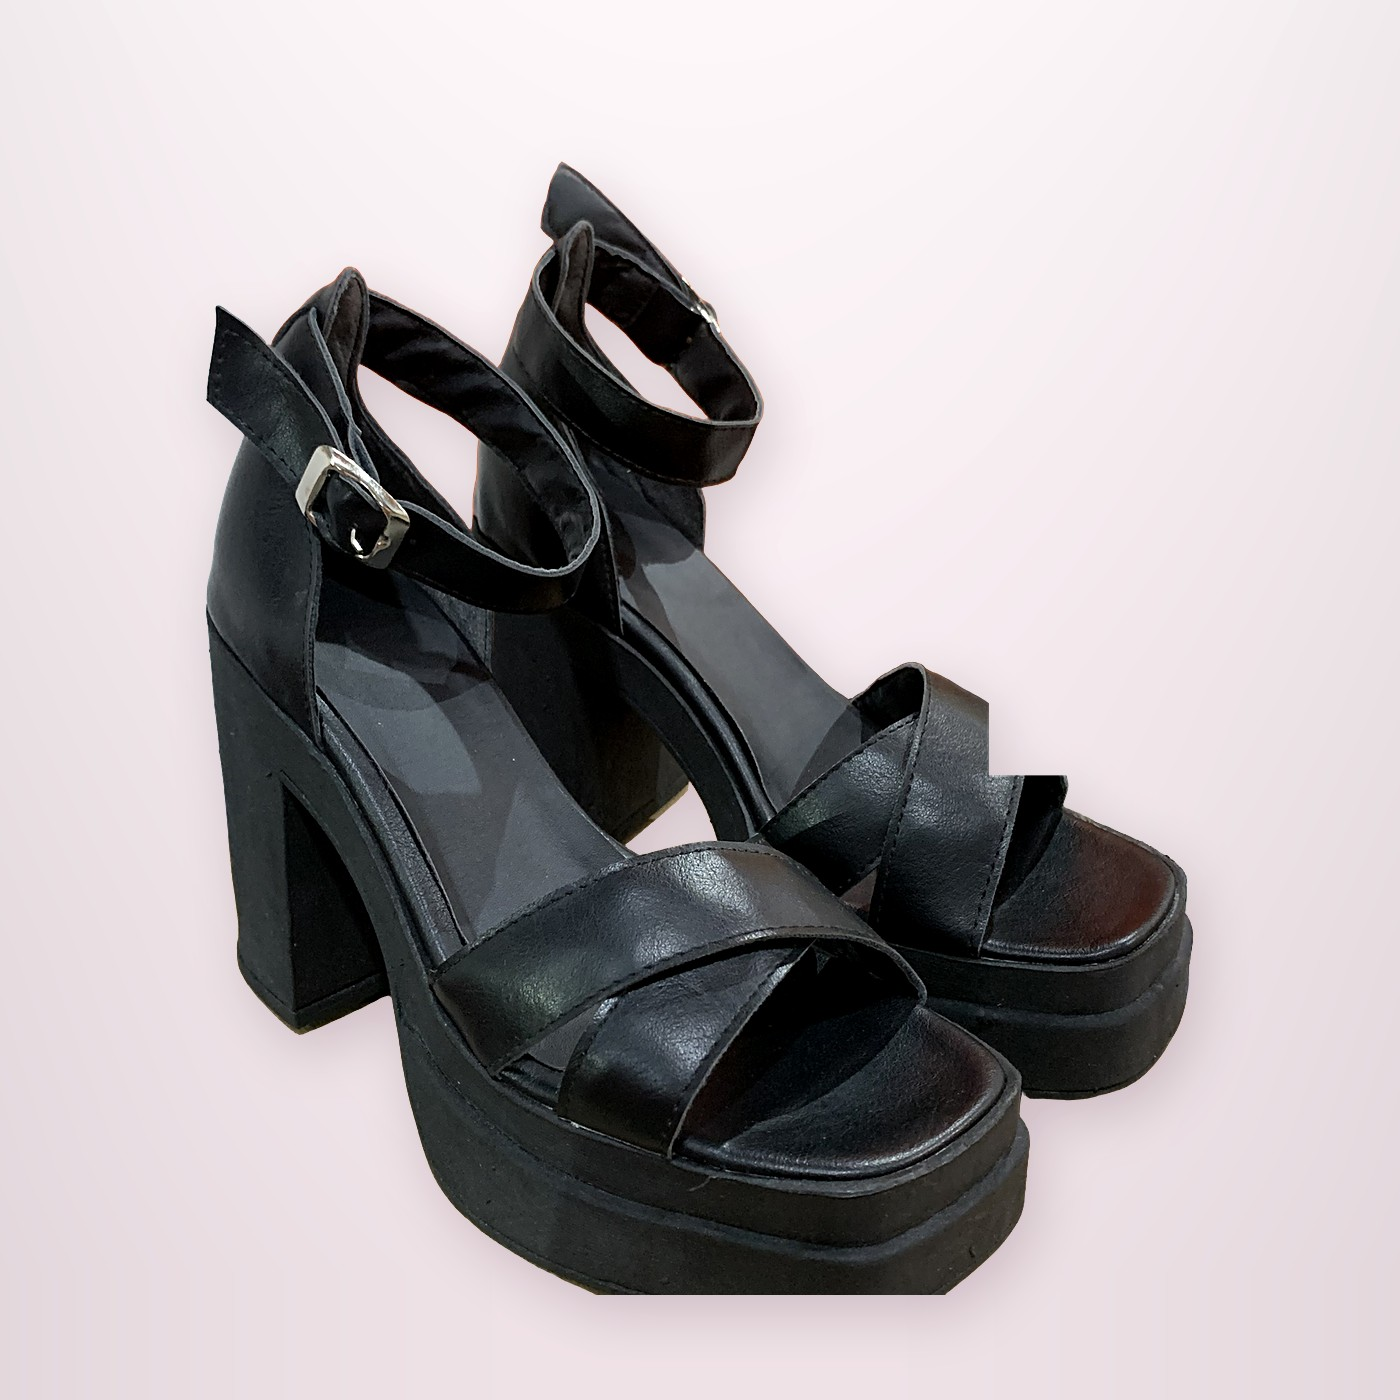
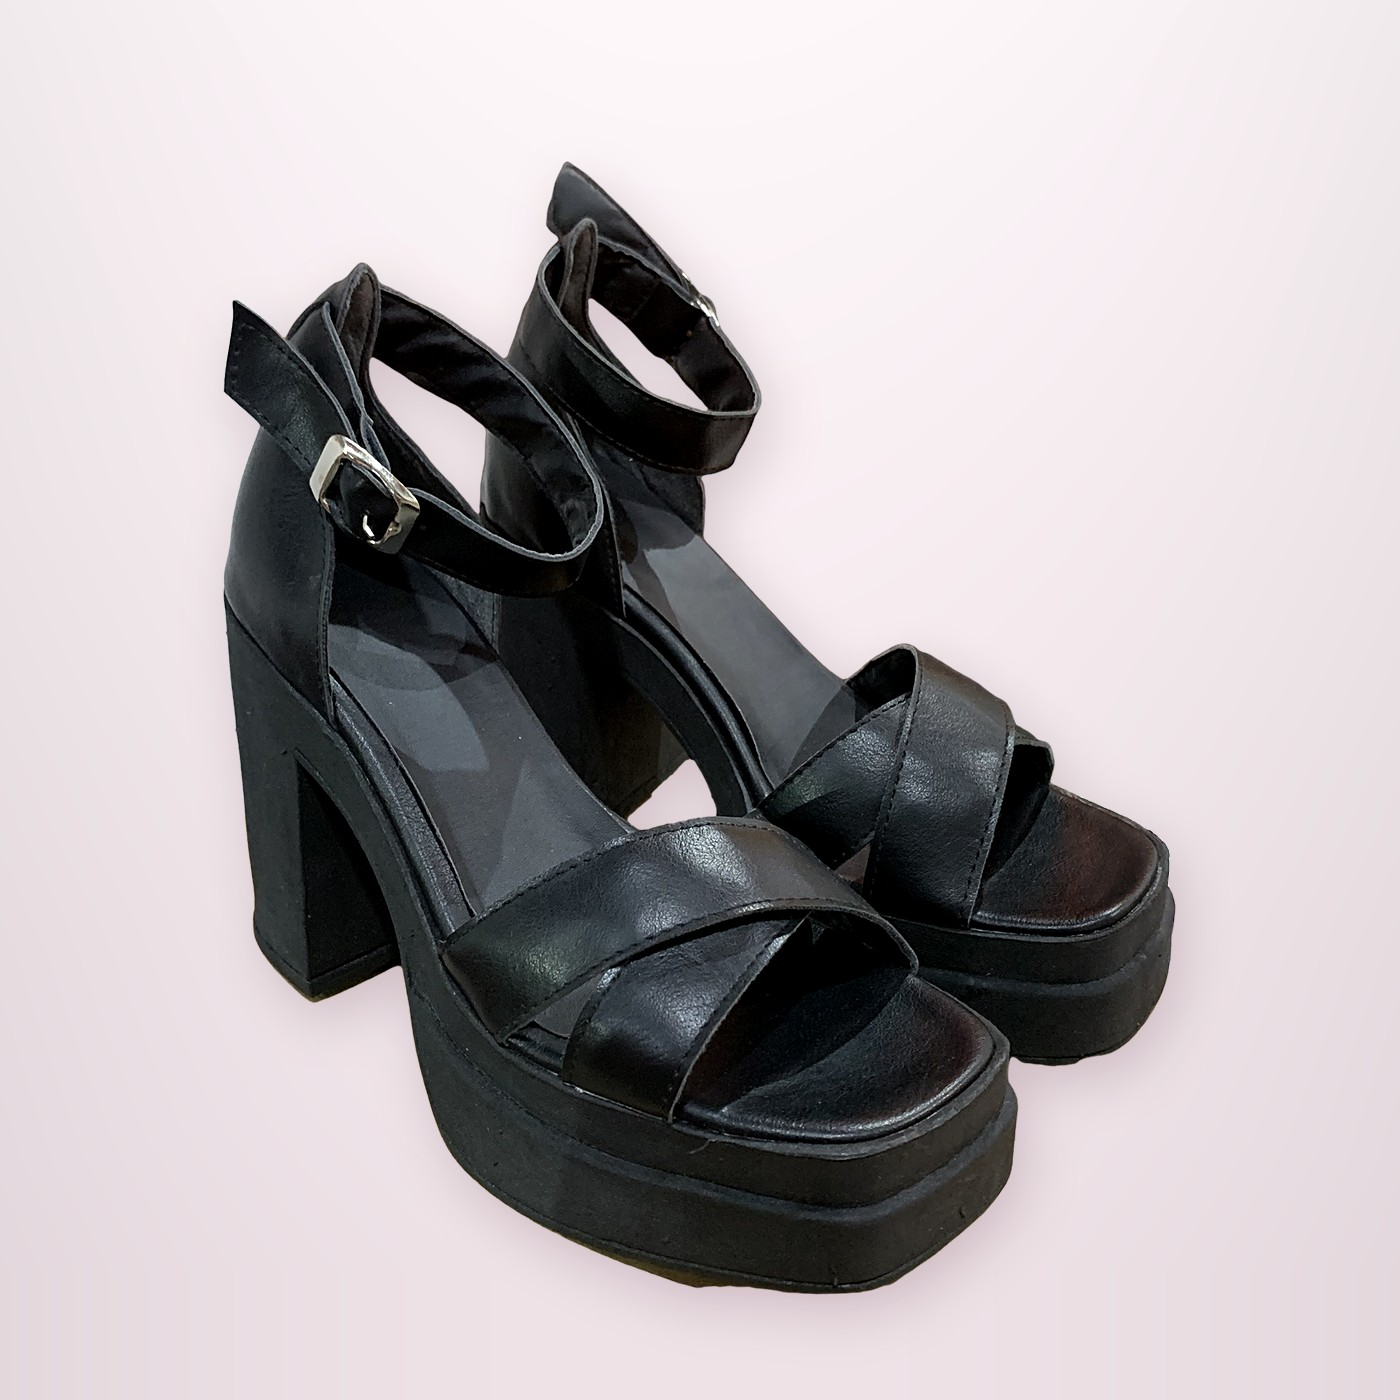
Sandalia Umma: foto nueva completa
Claude-Session: https://claude.ai/code/session_016kC1pPyL2jkNLS5KGy46ZW

Changed region(s): [[0.1229, 0.1229, 0.86, 0.9521]]

diff --git a/CLAUDE.md b/CLAUDE.md
@@ -62,7 +62,7 @@ No hay Node ni Python en las computadoras. `.claude/launch.json` → "tienda" le
 - Chavitos combinados (id 103, 2026-10-18, sección Chavitos; antes "Chavitos de cuero y gamuza": 2026-10-21 el dueño aclaró que son de ECOCUERO, no cuero —no decir "cuero"—; chelsea combinado liso + gamuzado, suela de crepe): Negro, $33.000 ($30.000 + 10%), talles 35–40, foto propia (reflejo naranja de la caja: en el cuero a gris, en la suela a color crepé; modo `crepe` de `plateada.py`).
 - Sandalia Carla (id 104, 2026-10-19, nombre del dueño): Chocolate, $33.000 ($30.000 + 10%), talles 35–40, foto propia (se borraron los logos "Tamara Rey" de las plantillas y el naranja de la caja que se veía por los ojalillos; `BORRAR`/`CAJAFUERA`/`NOCAJA` en `plateada.py`).
 - 2026-10-25, cinco productos nuevos (talles 35–40, fotos propias con el fondo de estudio): Sandalia franciscana símil víbora (id 105, Violeta, cuero), Sandalia franciscana con plataforma (id 106, Negro, cuero; la plantilla roja del talón es real), Sandalia de dos tiras animal print (id 107, NO es de cuero: no decir cuero), Sandalia símil víbora con dos hebillas y anillo al dedo (id 108, Camel, cuero; se borró el hilo de la etiqueta y el recorte se armó también por color, `TONO`/`OSCURO`/`BLANCO_DESDE` en `plateada.py`): las sandalias a $38.500 ($35.000 + 10%). Sueco símil víbora con hebilla (id 109, Blanco, $33.000 = $30.000 + 10%; material no confirmado; se borraron los logos "Tamara Rey" de las plantillas y el reflejo naranja de la caja, modo `salmon`).
-- Fotos cortadas (2026-10-29, el dueño: "las fotos de las sandalias están cortadas"): el dueño reenvió las fotos y se rehicieron con el recuadro amplio (`recorte.py` en el scratchpad, reemplaza a `plateada.py`; deja `-chk.jpg` con la máscara para revisar que no falte nada): 105, 106, 107, 108, Petty Vaca (81), 101 Habano y Chocolate y 104 Carla. Siguen pendientes de foto nueva: 92 Umma, 93 charol, 94 negro, 99 plata y 87 blanco.
+- Fotos cortadas (2026-10-29, el dueño: "las fotos de las sandalias están cortadas"): el dueño reenvió las fotos y se rehicieron con el recuadro amplio (`recorte.py` en el scratchpad, reemplaza a `plateada.py`; deja `-chk.jpg` con la máscara para revisar que no falte nada): 105, 106, 107, 108, Petty Vaca (81), 101 Habano y Chocolate y 104 Carla. 2026-10-29 también 92 Umma (pared naranja: `HUECO_NARANJA`, `SIN_CARTON` solo en una zona, modo `negro2`, `BORDE` para bordes lisos). Siguen pendientes de foto nueva: 93 charol, 94 negro, 99 plata y 87 blanco.
 - Sin la palabra "chinela" (2026-10-04, pedido del dueño): ids 52/53/54/55 pasaron a "Sandalia gomón con ojalillos", "Sandalia con strass y anillo al dedo", "Sandalia gomón con dos hebillas" (era "estilo Birk", marca ajena) y "Sandalia gomón con tachas cruzadas". Usar "Sandalia" o "Gomón".
 - Bota texana corta (id 2): 2026-09-29 se le unió la "Bota texana punta cuadrada" (id 13, ahora `oculto`) a pedido del dueño. Colores: Suela, Marrón (foto de la ex punta cuadrada), Negro y Blanco (fotos reales). Ya no hay foto pendiente del negro punta cuadrada.
 - Zapatillas animal print (id 69) y animal print con plataforma (id 70) (antes "leopardo", renombradas por el dueño): fotos propias del local (2026-09-29), talles 35–40. Precio cargado por el dueño desde el editor (en la base de datos, no en productos.js).
